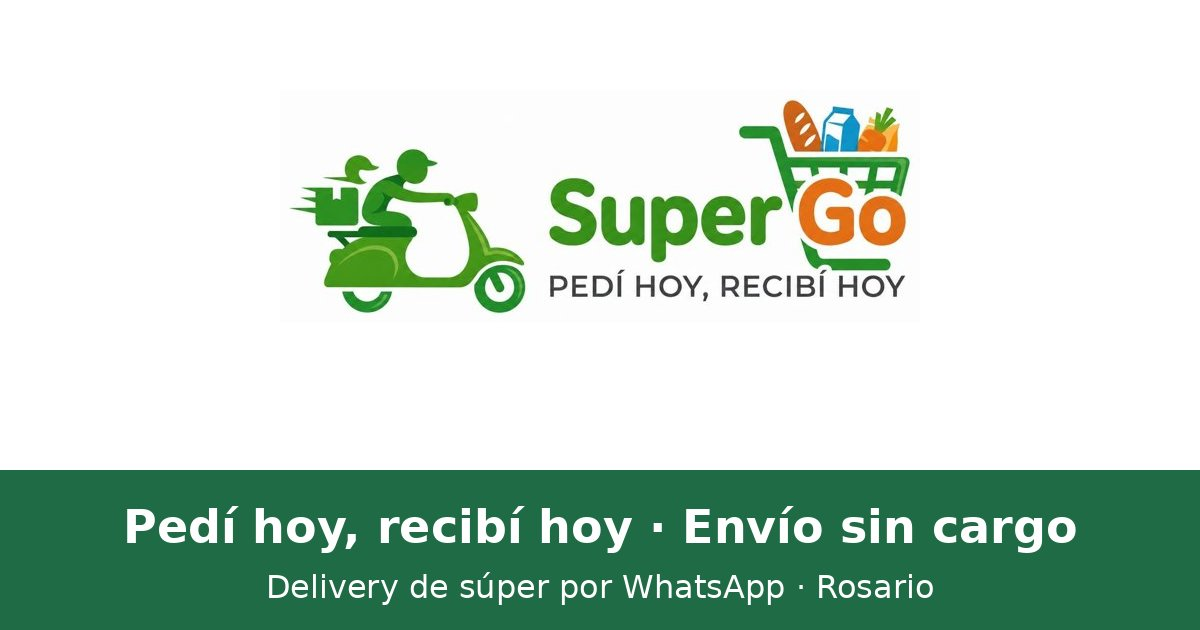
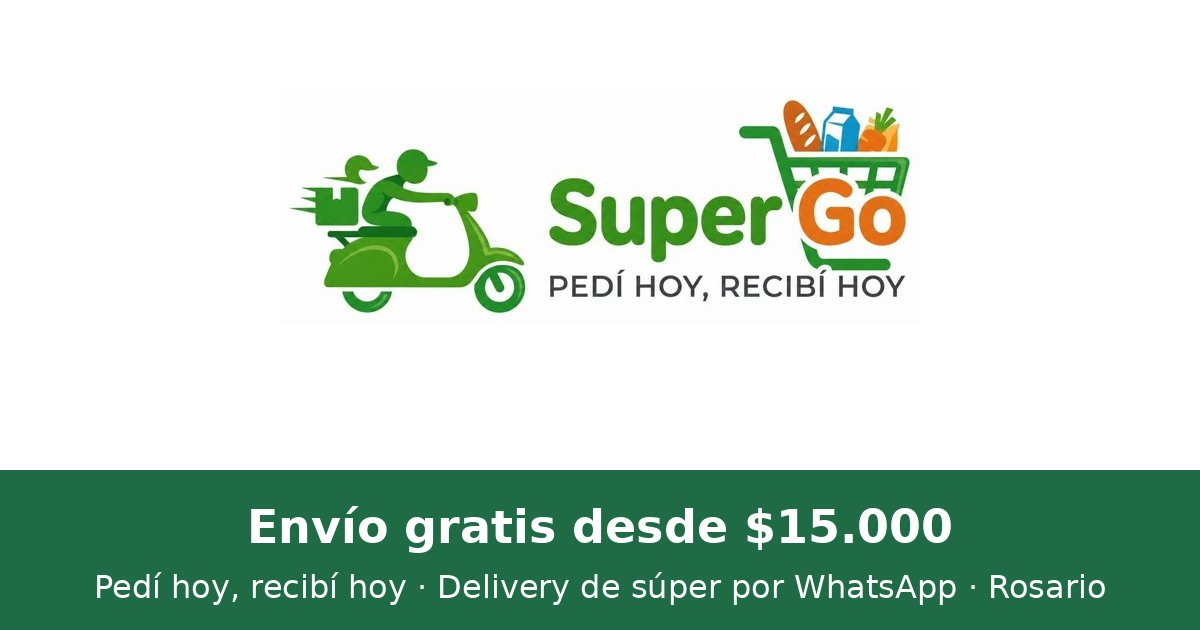
Envío $2.000 para pedidos menores a $15.000 (mínimo oculto $5.000) y textos de envío gratis desde $15.000
Claude-Session: https://claude.ai/code/session_01ART5XzFrHL2qU3MjBv7RHG

Changed region(s): [[0.0925, 0.7841, 0.8942, 0.8746], [0.0617, 0.9048, 0.925, 0.9651]]

diff --git a/index.html b/index.html
@@ -1,11 +1,11 @@
 <!doctype html>
 <html lang="es-AR"><head><meta charset="utf-8">
 <meta name="viewport" content="width=device-width, initial-scale=1, viewport-fit=cover">
-<meta name="description" content="Pedí hoy, recibí hoy. Delivery de súper por WhatsApp en Rosario. Envío sin cargo.">
+<meta name="description" content="Pedí hoy, recibí hoy. Delivery de súper por WhatsApp en Rosario. Envío gratis desde $15.000.">
 <meta name="theme-color" content="#1f6b45">
 <meta property="og:type" content="website"><meta property="og:url" content="https://supergo-enviosrosario.github.io/">
 <meta property="og:title" content="SuperGo · Tu súper, sin salir de casa">
-<meta property="og:description" content="Pedí hoy, recibí hoy. Envío sin cargo en Rosario. Mirá los productos y precios y hacé tu pedido por WhatsApp.">
+<meta property="og:description" content="Pedí hoy, recibí hoy. Envío gratis desde $15.000 en Rosario. Mirá los productos y precios y hacé tu pedido por WhatsApp.">
 <meta property="og:image" content="https://supergo-enviosrosario.github.io/img/og.jpg"><meta property="og:image:width" content="1200"><meta property="og:image:height" content="630">
 <meta property="og:locale" content="es_AR"><meta name="twitter:card" content="summary_large_image">
 <link rel="icon" type="image/png" href="img/icon-192.png"><link rel="apple-touch-icon" href="img/icon-180.png"><link rel="manifest" href="manifest.webmanifest">
@@ -125,14 +125,14 @@ label{display:block;font-weight:600;font-size:.88rem;margin-top:12px}
 
 <header class="wrap">
   <div class="brand"><h1 class="logo"><img src="img/logo.webp" alt="SuperGo. Pedí hoy, recibí hoy"></h1><p class="slogan">Tu súper, sin salir de casa.</p></div>
-  <div class="info"><span>Pedidos hasta las 14 h, entrega en el día</span><span>Envíos sin cargo, zona Rosario</span><span>Pagás al recibir o por transferencia</span></div>
+  <div class="info"><span>Pedidos hasta las 14 h, entrega en el día</span><span>Envío GRATIS desde $ 15.000 · Rosario</span><span>Pagás al recibir o por transferencia</span></div>
   <div class="links"><a id="wa" href="#" target="_blank" rel="noopener">💬 ¿Tenés una duda? Escribinos</a><button id="inst" type="button" hidden>📲 Agregar SuperGo a mi celular</button></div>
   <div class="again" id="again" hidden><p>¿Repetís tu último pedido?<small id="againtxt"></small></p><button type="button" id="repeat">Repetir pedido</button></div>
 </header>
 <nav><div class="wrap"><div class="tabs" id="tabs" role="toolbar" aria-label="Categorías"></div><input id="q" class="search" type="search" placeholder="Buscar producto (yerba, fideos, lavandina…)" aria-label="Buscar producto"></div></nav>
 <main class="wrap" id="list"></main>
 
-<div class="bar"><div class="prog" id="prog"><span id="progtxt">Pedido mínimo $ 15.000</span><div class="track"><div class="fill" id="fill"></div></div></div><div class="in"><div class="tot"><div id="count">Tu pedido está vacío</div><strong id="total">$ 0</strong></div><button class="cta" id="open" disabled>Ver pedido</button></div></div>
+<div class="bar"><div class="prog" id="prog"><span id="progtxt">Envío GRATIS desde $ 15.000</span><div class="track"><div class="fill" id="fill"></div></div></div><div class="in"><div class="tot"><div id="count">Tu pedido está vacío</div><strong id="total">$ 0</strong></div><button class="cta" id="open" disabled>Ver pedido</button></div></div>
 
 <div class="toast" id="toast" hidden role="status"></div>
 <div class="zoom" id="zoom" hidden role="dialog" aria-modal="true" aria-label="Producto"><div class="zbox"><img id="zimg" alt=""><div class="zn" id="zname"></div><div class="row"><div><span class="price" id="zprice"></span><div class="unit">por unidad</div></div><div id="zctl"></div></div><button class="ghost" id="zclose" type="button">Cerrar</button></div></div>
@@ -140,6 +140,7 @@ label{display:block;font-weight:600;font-size:.88rem;margin-top:12px}
   <div class="panel" role="dialog" aria-modal="true" aria-labelledby="ttl">
     <div class="phead"><h3 id="ttl">Tu pedido</h3><button class="more xbtn" id="close2" type="button">+ Sumar productos</button></div>
     <div id="lines"></div>
+    <div class="line" id="envline" hidden><span>Envío</span><span id="envio">$ 0</span></div>
     <div class="line"><strong>Total</strong><strong id="total2">$ 0</strong></div>
     <div id="sug"></div>
     <div id="min" class="warn" hidden></div>
@@ -156,7 +157,9 @@ label{display:block;font-weight:600;font-size:.88rem;margin-top:12px}
 
 <script>
 const WHATSAPP = "5493416747854"; // número de SuperGo con código de país, sin + ni espacios. Ej: 5493411234567
-const MINIMO = 15000;
+const MINIMO = 15000; // envío gratis desde acá
+const ENVIO = 2000; // costo de envío si no llega a MINIMO
+const MIN_ABS = 5000; // mínimo oculto: solo se avisa si no llega
 const P = [{"id": 0, "c": "Almacén", "n": "Aceite girasol El Cortijo 900 cc", "p": 2800, "i": "img/aceite-el-cortijo-900cc.webp"}, {"id": 1, "c": "Almacén", "n": "Aceite girasol Zanoni 900 cc", "p": 3550, "i": "img/zanoni-900cc.webp"}, {"id": 2, "c": "Almacén", "n": "Harina Brunin 000 1 kg", "p": 850, "i": "img/brunin-000.webp"}, {"id": 3, "c": "Almacén", "n": "Harina Brunin 0000 1 kg", "p": 1000, "i": "img/brunin-0000.webp"}, {"id": 4, "c": "Almacén", "n": "Harina Brunin Leudante 1 kg", "p": 1250, "i": "img/brunin-leud.webp"}, {"id": 5, "c": "Almacén", "n": "Fideos Favorita Spaghetti 500 g", "p": 900, "i": "img/favorita-spaghetti.webp"}, {"id": 6, "c": "Almacén", "n": "Fideos Favorita Mostachol 500 g", "p": 900, "i": "img/favorita-mostachol.webp"}, {"id": 7, "c": "Almacén", "n": "Fideos Don Guido Codito 500 g", "p": 700, "i": "img/don-guido-codito.webp"}, {"id": 8, "c": "Almacén", "n": "Fideos Don Guido Tirabuzón 500 g", "p": 700, "i": "img/don-guido-tirabuzon.webp"}, {"id": 9, "c": "Almacén", "n": "Fideos Don Guido Spaghetti 500 g", "p": 700, "i": "img/spaguetti-don-guido.webp"}, {"id": 10, "c": "Almacén", "n": "Fideos Don Guido Mostachol 500 g", "p": 700, "i": "img/mostachol.webp"}, {"id": 11, "c": "Almacén", "n": "Arroz Trimacer largo fino 500 g", "p": 900, "i": "img/trimacer.webp"}, {"id": 12, "c": "Almacén", "n": "Puré de tomate De la Huerta 530 g", "p": 1000, "i": "img/pure-de-tomate-la-huerta-530gr.webp"}, {"id": 13, "c": "Almacén", "n": "Puré de tomate Arcor brik 520 g", "p": 1050, "i": "img/arcor.webp"}, {"id": 14, "c": "Almacén", "n": "Atún en trozos al natural Gomes da Costa 170 g", "p": 4000, "i": "img/atun-gomes.webp"}, {"id": 15, "c": "Almacén", "n": "Sal fina 500 g", "p": 1500, "i": "img/sal-celusan-500gr.webp"}, {"id": 16, "c": "Almacén", "n": "Mayonesa Hellmann's doypack 237 g", "p": 1700, "i": "img/mayonesa.webp"}, {"id": 17, "c": "Desayuno y merienda", "n": "Yerba Playadito 500 g", "p": 2650, "i": "img/yerba-playadito-500gr.webp"}, {"id": 18, "c": "Desayuno y merienda", "n": "Yerba Amanda Tradicional 500 g", "p": 2200, "i": "img/yerba-amanda-500gr.webp"}, {"id": 19, "c": "Desayuno y merienda", "n": "Café La Virginia Doy Pack 100 g Clásico", "p": 5250, "i": "img/cafe-clasico.webp"}, {"id": 20, "c": "Desayuno y merienda", "n": "Café La Virginia Doy Pack 100 g Suave", "p": 5250, "i": "img/cafe-suave.webp"}, {"id": 21, "c": "Desayuno y merienda", "n": "Té La Virginia x25", "p": 900, "i": "img/te25.webp"}, {"id": 22, "c": "Desayuno y merienda", "n": "Té La Virginia x50", "p": 2000, "i": "img/te50.webp"}, {"id": 23, "c": "Desayuno y merienda", "n": "Azúcar Bulnez 1 kg", "p": 1350, "i": "img/bulnez.webp"}, {"id": 24, "c": "Limpieza", "n": "Lavandina Querubín 1 L", "p": 1400, "i": "img/querubin.webp"}, {"id": 25, "c": "Limpieza", "n": "Detergente Magistral 300 ml", "p": 2850, "i": "img/destergente-magistral-300ml.webp"}, {"id": 26, "c": "Limpieza", "n": "Detergente Cif Bioactive Lima 300 ml", "p": 1850, "i": "img/cif-bioactive.webp"}, {"id": 27, "c": "Limpieza", "n": "Jabón líquido Ala Matic 500 ml para diluir", "p": 11150, "i": "img/ala500.webp"}, {"id": 28, "c": "Limpieza", "n": "Jabón líquido Ala Eco con bicarbonato 500 ml para diluir", "p": 11150, "i": "img/ala-eco.webp"}, {"id": 29, "c": "Limpieza", "n": "Suavizante Ecovita Único 900 ml", "p": 2950, "i": "img/ecovita-unico.webp"}, {"id": 30, "c": "Limpieza", "n": "Suavizante Ecovita Orquídeas 900 ml", "p": 2500, "i": "img/ecovita-orq.webp"}, {"id": 31, "c": "Limpieza", "n": "Limpiador Poett Frescura de lavanda 900 ml", "p": 2550, "i": "img/poett-lavanda.webp"}, {"id": 32, "c": "Limpieza", "n": "Limpiador Poett Alegra tu día 900 ml", "p": 2550, "i": "img/poett-alegra.webp"}, {"id": 33, "c": "Limpieza", "n": "Cif baño 450 ml", "p": 2900, "i": "img/cif.webp"}, {"id": 34, "c": "Papel e higiene", "n": "Papel higiénico Elegante 4 rollos x 30 m", "p": 1800, "i": "img/elegante-papel-higienico-4-x-30mts.webp"}, {"id": 35, "c": "Papel e higiene", "n": "Rollo de cocina x3", "p": 2100, "i": "img/rollo.webp"}, {"id": 36, "c": "Papel e higiene", "n": "Jabón de tocador Lux Botanicals Rosas francesas 120 g", "p": 1650, "i": "img/lux-rosas.webp"}, {"id": 37, "c": "Papel e higiene", "n": "Jabón de tocador Lux Botanicals Orquídea negra 120 g", "p": 1650, "i": "img/lux-orq.webp"}, {"id": 38, "c": "Papel e higiene", "n": "Jabón de tocador Plusbelle Coco x3 (120 g c/u)", "p": 4350, "i": "img/plusbelle.webp"}, {"id": 39, "c": "Papel e higiene", "n": "Crema dental Colgate Triple Acción 90 g", "p": 4150, "i": "img/colgate-ta.webp"}, {"id": 40, "c": "Papel e higiene", "n": "Crema dental Colgate Máxima Protección 90 g", "p": 3500, "i": "img/colgate.webp"}, {"id": 41, "c": "Papel e higiene", "n": "Antitranspirante en crema Rexona Odorono", "p": 2500, "i": "img/odorono.webp"}, {"id": 42, "c": "Bebidas", "n": "Coca-Cola Regular 2 L retornable", "p": 3700, "i": "img/coca.webp"}, {"id": 43, "c": "Bebidas", "n": "Fanta 2 L retornable", "p": 3700, "i": "img/fanta.webp"}, {"id": 44, "c": "Bebidas", "n": "Sprite 2 L retornable", "p": 3700, "i": "img/sprite.webp"}, {"id": 45, "c": "Bebidas", "n": "Soda sifón 2 L", "p": 1500, "i": "img/soda.webp"}];
 const cats = [...new Set(P.map(p=>p.c))];
 const cart = {};
@@ -193,20 +196,23 @@ function render(){
   $("#total").textContent = fmt(total);
   $("#open").disabled = !units;
   $("#open").classList.toggle("ready",total>=MINIMO);
-  $("#open").classList.toggle("low",units>0&&total<MINIMO);
+  $("#open").classList.toggle("low",units>0&&total<MIN_ABS);
   $("#lines").innerHTML = items.map(([id,n])=>`<div class="line"><span>${P[id].n}<br><small>${fmt(P[id].p*n)}</small></span><span class="q"><button type="button" data-m="${id}" aria-label="Quitar uno">−</button><b>${n}</b><button type="button" data-a="${id}" aria-label="Agregar uno">+</button></span></div>`).join("");
   const SUG=["Lavandina","Papel higiénico 4 rollos","Azúcar Chango","Leche","Fideos Lucchetti","Puré de tomate De la Huerta","Detergente Magistral","Rollo de cocina","Yerba Playadito","Aceite girasol El Cortijo"];
   if(sugIds===null) sugIds=SUG.map(s=>P.find(p=>p.n.startsWith(s))).filter(p=>p&&!cart[p.id]).slice(0,2).map(p=>p.id);
   const sug=sugIds.map(id=>P[id]).filter(p=>!cart[p.id]);
   $("#sug").innerHTML = sug.length ? `<div class="sug"><h4>¿Te olvidaste algo?</h4><div class="sugrow">${sug.map(p=>`<div class="sugi">${p.i?`<img src="${p.i}" alt="">`:`<span class="ph">${p.n[0]}</span>`}<div class="t">${p.n}<span>${fmt(p.p)}</span></div><button type="button" data-a="${p.id}" aria-label="Agregar ${p.n}">+</button></div>`).join("")}</div></div>` : "";
-  $("#total2").textContent = fmt(total);
+  const env = total>=MINIMO ? 0 : ENVIO;
+  $("#envline").hidden = !units;
+  $("#envio").textContent = env ? fmt(env) : "GRATIS";
+  $("#total2").textContent = fmt(total+env);
   const m = $("#min");
   m.hidden = total>=MINIMO;
-  m.textContent = `El pedido mínimo es de ${fmt(MINIMO)}. Te faltan ${fmt(Math.max(0,MINIMO-total))}.`;
-  $("#send").disabled = total<MINIMO;
+  m.textContent = total<MIN_ABS ? `Para hacer un pedido necesitás sumar al menos ${fmt(MIN_ABS)} en productos. Te faltan ${fmt(MIN_ABS-total)}.` : `⚠ Tu pedido es menor a ${fmt(MINIMO)}, así que se suma ${fmt(ENVIO)} de envío. Sumá ${fmt(MINIMO-total)} más y el envío es GRATIS.`;
+  $("#send").disabled = total<MIN_ABS;
   const pr=$("#prog"); pr.classList.toggle("ok",total>=MINIMO);
   $("#fill").style.width=Math.min(100,total/MINIMO*100)+"%";
-  $("#progtxt").textContent = !units ? `Pedido mínimo ${fmt(MINIMO)}` : total>=MINIMO ? `Listo, llegaste al mínimo. Tocá "Finalizar pedido" para enviarlo.` : `Te faltan ${fmt(MINIMO-total)} para el pedido mínimo de ${fmt(MINIMO)}`;
+  $("#progtxt").textContent = !units ? `Envío GRATIS desde ${fmt(MINIMO)}` : total>=MINIMO ? `¡Tenés envío GRATIS! Tocá "Finalizar pedido" para enviarlo.` : `Te faltan ${fmt(MINIMO-total)} para el envío GRATIS`;
   if(zid!==null) zoomctl();
 }
 function message(){
@@ -214,7 +220,10 @@ function message(){
   const total = items.reduce((s,[id,n])=>s+P[id].p*n,0);
   let t = "Hola SuperGo! Quiero hacer este pedido:\n\n";
   t += items.map(([id,n])=>`• ${n} x ${P[id].n} — ${fmt(P[id].p*n)}`).join("\n");
-  t += `\n\nTotal: ${fmt(total)}`;
+  const env = total>=MINIMO ? 0 : ENVIO;
+  t += `\n\nProductos: ${fmt(total)}`;
+  t += `\nEnvío: ${env?fmt(env):"GRATIS"}`;
+  t += `\nTotal: ${fmt(total+env)}`;
   const nom=$("#nom").value.trim(), dir=$("#dir").value.trim(), obs=$("#obs").value.trim();
   if(nom) t+=`\nNombre: ${nom}`;
   const tel=$("#tel").value.trim();
@@ -235,7 +244,7 @@ document.addEventListener("click",e=>{
   if(b.dataset.m){cart[b.dataset.m]=Math.max(0,(cart[b.dataset.m]||0)-1);render();return}
   if(b.id==="open"){sugIds=null;
     const tot=Object.entries(cart).reduce((s,[id,n])=>s+P[id].p*n,0);
-    if(tot<MINIMO){const ts=$("#toast");ts.textContent=`Te faltan ${fmt(MINIMO-tot)} para llegar al pedido mínimo de ${fmt(MINIMO)}. Sumá algunos productos más.`;ts.hidden=false;clearTimeout(window._tt);window._tt=setTimeout(()=>ts.hidden=true,3500);return}render();$("#sheet").hidden=false;return}
+    if(tot<MIN_ABS){const ts=$("#toast");ts.textContent=`Para hacer un pedido necesitás sumar al menos ${fmt(MIN_ABS)} en productos. Te faltan ${fmt(MIN_ABS-tot)}.`;ts.hidden=false;clearTimeout(window._tt);window._tt=setTimeout(()=>ts.hidden=true,3500);return}render();$("#sheet").hidden=false;return}
   if(b.id==="close"||b.id==="close2"){$("#sheet").hidden=true;return}
   if(b.id==="send"){
     const req=[["nom","tu nombre"],["tel","tu teléfono"],["dir","tu dirección de entrega"],["pago","la forma de pago"]];
